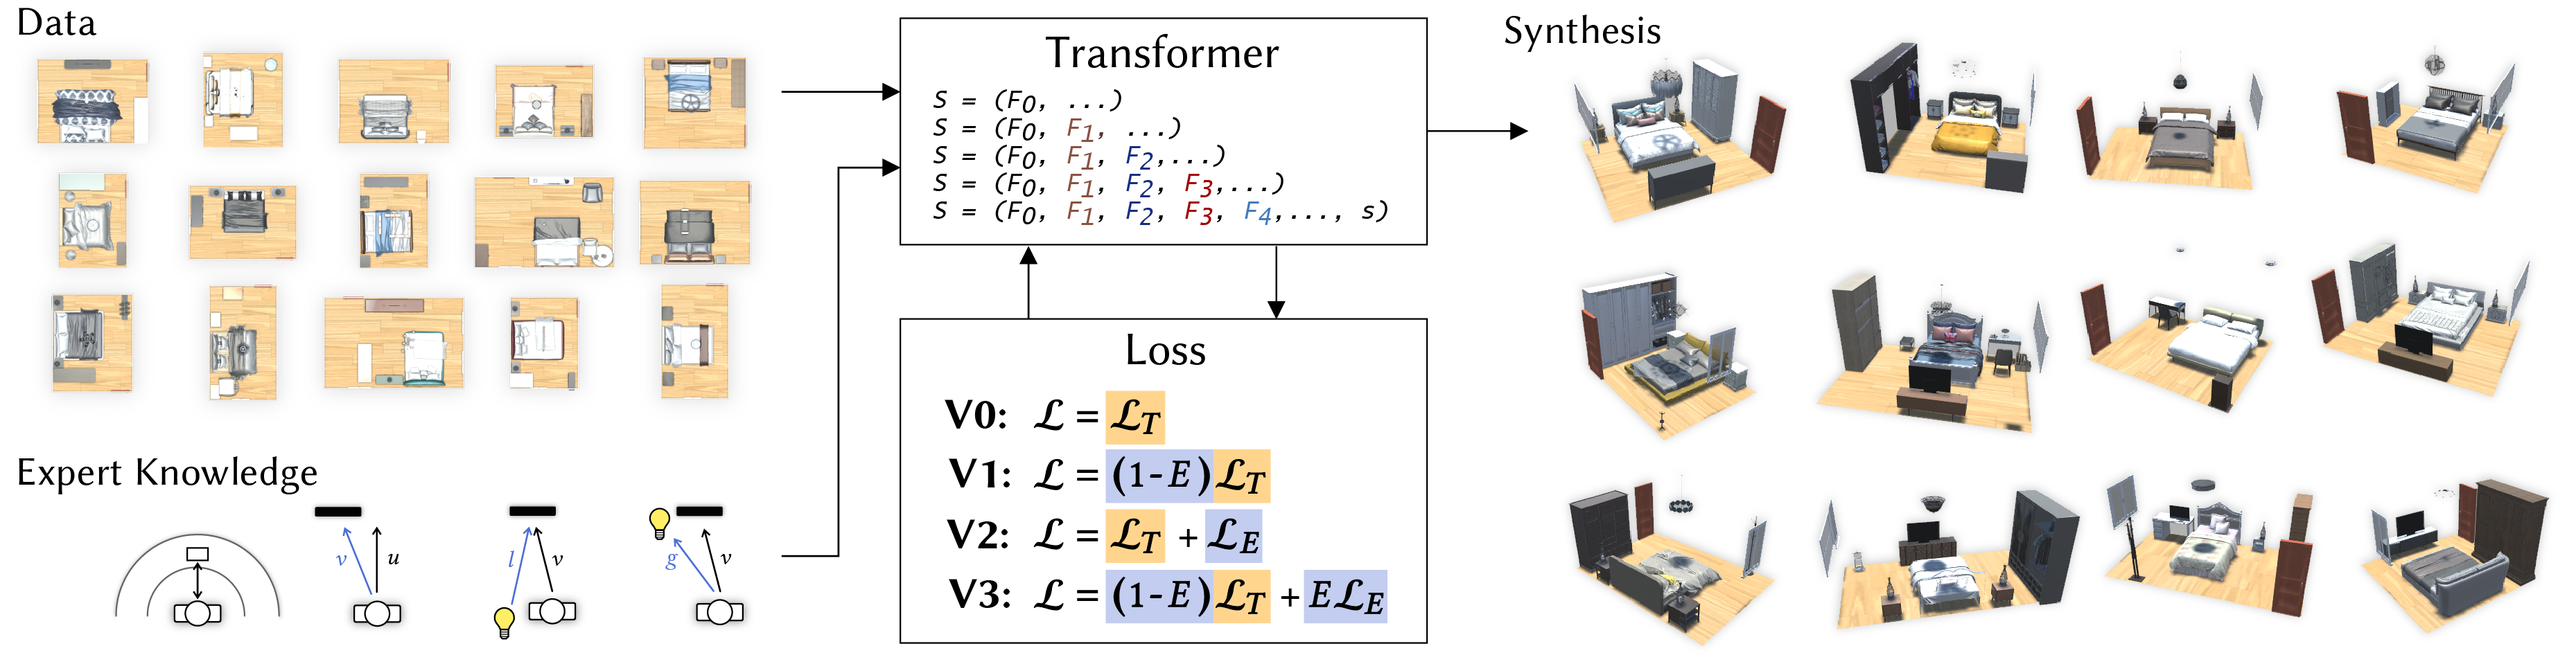
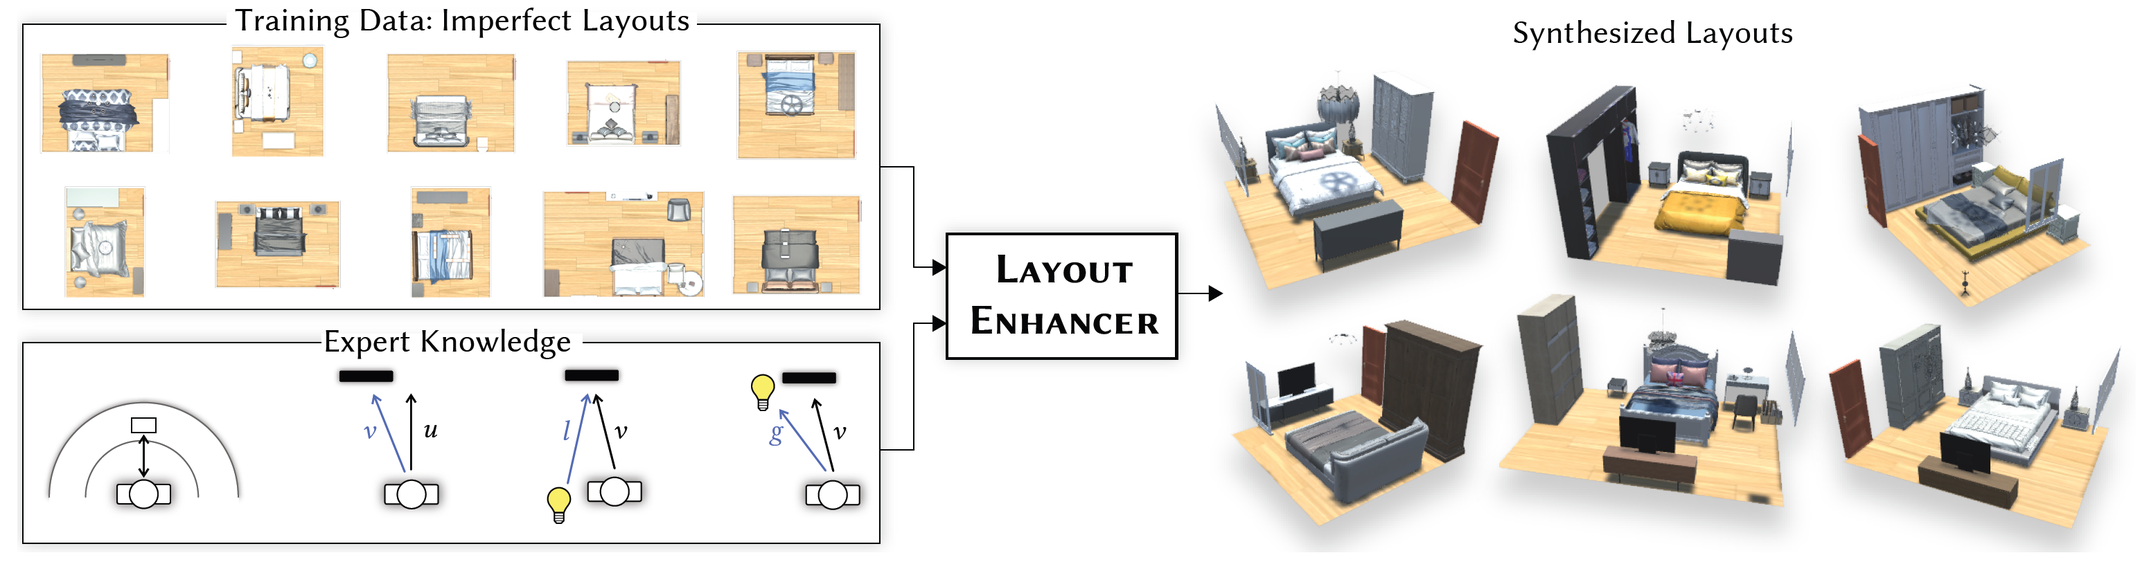
updated readme

diff --git a/README.md b/README.md
@@ -1,14 +1,14 @@
-# ATEK: Augmenting Transformers with Expert Knowledge for Indoor Layout Synthesis
+# LayoutEnhancer: Generating Good Indoor Layouts from Imperfect Data
 
-![Examples of scenes generated by ATEK](img/teaser.png)
+![Examples of scenes generated by LayoutEnhancer](img/teaser.png)
 
-Initial code release for the [ATEK paper](https://arxiv.org/abs/2202.00185), code and scripts for dataset preprocessing, training and layout synthesis.
+Initial code release for the [LayoutEnhancer paper](https://arxiv.org/abs/TBD), code and scripts for dataset preprocessing, training and layout synthesis.
 
 ## Setup
 The simplest way to set up the project is to create a new Anaconda environment using the provided `environment.yaml` file:
 ```
 conda create -f environment.yaml
-conda activate ATEK
+conda activate LayoutEnhancer
 ```
 Alternatively, we also provide a `requirements.txt` file that can be used to install the required packages in an existing environment using pip:
 ```
@@ -34,42 +34,54 @@ python convert_rooms_to_sequences.py PATH_TO_CONFIG
 ```
 This command accepts multiple config files as input. Example configs are provided in the `config/` directory, with the `config_reference.yaml` file providing a description of each config parameter. For this step, only the `general` and `paths` parameter categories are relevant. The optional argument `--num_room_plots` can be used to display 2d-plots of the specified number of rooms to check if the conversion was successful.
 
+If you also want provide binary room masks for the pre-processed data, you can instead use
+```
+python convert_rooms_to_sequences_with_masks.py PATH_TO_CONFIG PATH_3DFRONT_MASKS
+```
+The `PATH_3DFRONT_MASKS` directory should contain a folder for each room with the name `HOUSENAME_ROOMNAME` which contain a binary mask (white floor, black background) with the filename `room_mask.png` in 256x256 resolution. The pre-processing script of [ATISS](https://github.com/nv-tlabs/atiss) can create such data for the 3DFRONT dataset.
+
 ## Training
 To train a model, use:
 ```
 python train_network.py PATH_TO_CONFIG
 ```
-This command also accepts multiple config files as input to train several models in succession. In addition to the `general` and `paths` parameter categories, the `network` parameters are also important for this step.
+This command also accepts multiple config files as input to train several models in succession. In addition to the `general` and `paths` parameter categories, the `network` parameters are also important for this step. To include the room masks during training, the `use_room_masks` parameter must be set to True.
 
 ## Evaluation
 The following script can be used to evaluate a trained model by synthesizing a large number of layouts and computing the ergonomic score of the created layouts:
 ```
 python create_and_evaluate_scenes.py PATH_TO_CONFIG
 ```
-Again multiple config files can be provided to evaluate multiple models. The new layouts are created without collision-detection and saved in the `path_output_data/sequence/` directory. Once done, plots of the training, validation and ergonomic scores are displayed. The argument `--no_synthesis` can be used to skip the layout synthesis step and just display the losses if they exist already. The maximum number of layouts that are created in parallel can be set with the `--max_batch_size` argument (defaults to 200), since a larger size requires more GPU memory. Finally, the `--manual_seed` argument can be used to set a manual seed for the random sampling process.
+Again multiple config files can be provided to evaluate multiple models. The new layouts are created without collision-detection and saved in the `path_output_data/sequence/` directory. Once done, plots of the training, validation and ergonomic scores are displayed. The argument `--no_synthesis` can be used to skip the layout synthesis step and just display the losses if they exist already. The maximum number of layouts that are created in parallel can be set with the `--max_batch_size` argument (defaults to 200), since a larger size requires more GPU memory. Finally, the `--manual_seed` argument can be used to set a manual seed for the random sampling process. Please note that this evaluation script does not support room masks.
 
 ## Synthesis
 To create new layouts (including collision-detection if enabled), the following script can be used:
 ```
 python scene_synthesis.py PATH_TO_CONFIG
 ```
-Multiple config files can be specified to synthesize new layouts for multiple models. The created layouts are saved as sequences in the `path_output_data/sequence/` directory. The argument `--num_room_plots` can be used to create 2d plots of the specified number of rooms, which are then saved in the 'path_output_data/plots/' directory. It is also possible to provide a manual seed for the random sampling using the `--manual_seed` argument.
+Multiple config files can be specified to synthesize new layouts for multiple models. The created layouts are saved as sequences in the `path_output_data/sequence/` directory. The argument `--num_room_plots` can be used to create 2d plots of the specified number of rooms, which are then saved in the `path_output_data/plots/` directory. It is also possible to provide a manual seed for the random sampling using the `--manual_seed` argument.
+
+To create layouts conditioned on existing room data (floor, doors and windows), use
+```
+python scene_synthesis_with_masks.py PATH_TO_CONFIG
+```
+This script randomly picks rooms from the validation set as input. This requires the data set to be processed with the corresponding script that includes the room masks and a model that has been trained with room masks enabled.
 
 ## Reconstruction
 The final script reconstructs a 3d scene from the 2d layouts created in the previous step:
 ```
 python reconstruct_scenes.py PATH_TO_CONFIG
 ```
-This scripts creates 2 outputs for each scene. The first is a json-file saved in the `path_output_data/house/` directory which contains the scene-hierarchy including model-ids and transformations for each object in the scene. The second output is saved in the `path_output_data/room/` directory and contains obj- and mtl-files of the floor and walls of the room. Unfortunately we cannot provide a rendering framework for the scenes at this time. 
+This scripts creates 2 outputs for each scene. The first is a json-file saved in the `path_output_data/house/` directory which contains the scene-hierarchy including model-ids and transformations for each object in the scene. The second output is saved in the `path_output_data/room/` directory and contains obj- and mtl-files of the floor and walls of the room. If room masks were used to create the scenes, the `--with_floors` argument can be used to export the floor mesh of the corresponding validation set room instead of creating a default rectangular floor. Unfortunately we cannot provide a rendering framework for the scenes at this time. 
 
 **If you find our work useful, please consider citing us:**
 
 ```
-@misc{leimer2022atek,
-      title={ATEK: Augmenting Transformers with Expert Knowledge for Indoor Layout Synthesis}, 
+@misc{leimer2022layoutenhancer,
+      title={LayoutEnhancer: Generating Good Indoor Layouts from Imperfect Data}, 
       author={Kurt Leimer and Paul Guerrero and Tomer Weiss and Przemyslaw Musialski},
       year={2022},
-      eprint={2202.00185},
+      eprint={TBD},
       archivePrefix={arXiv},
       primaryClass={cs.GR}
 }
